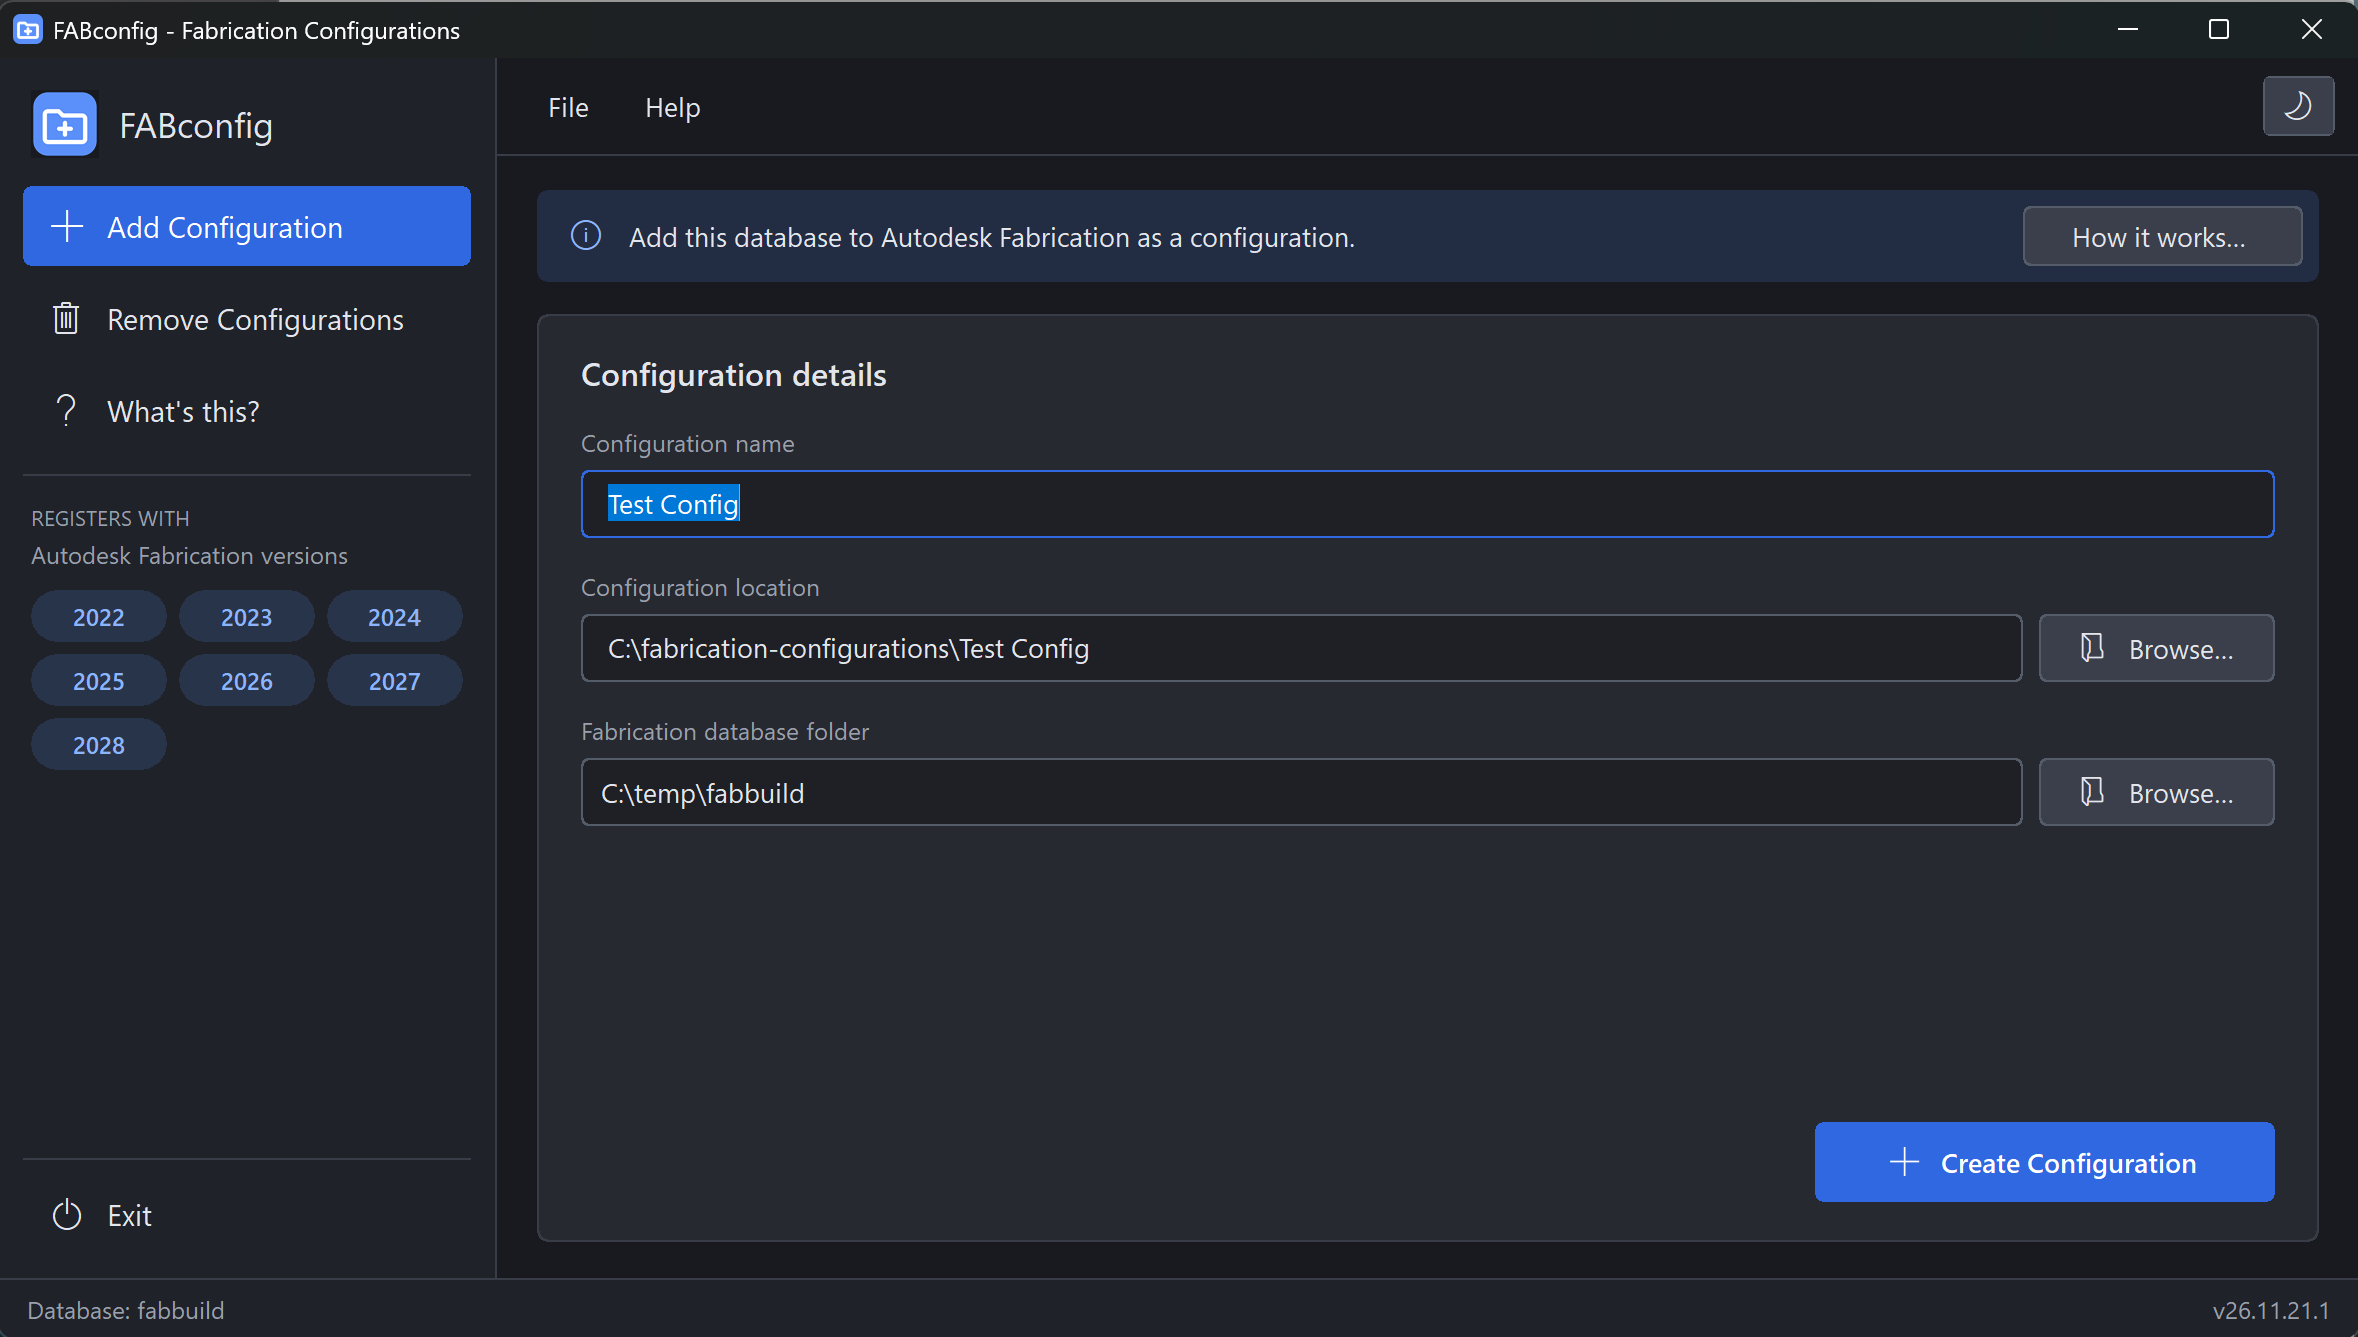
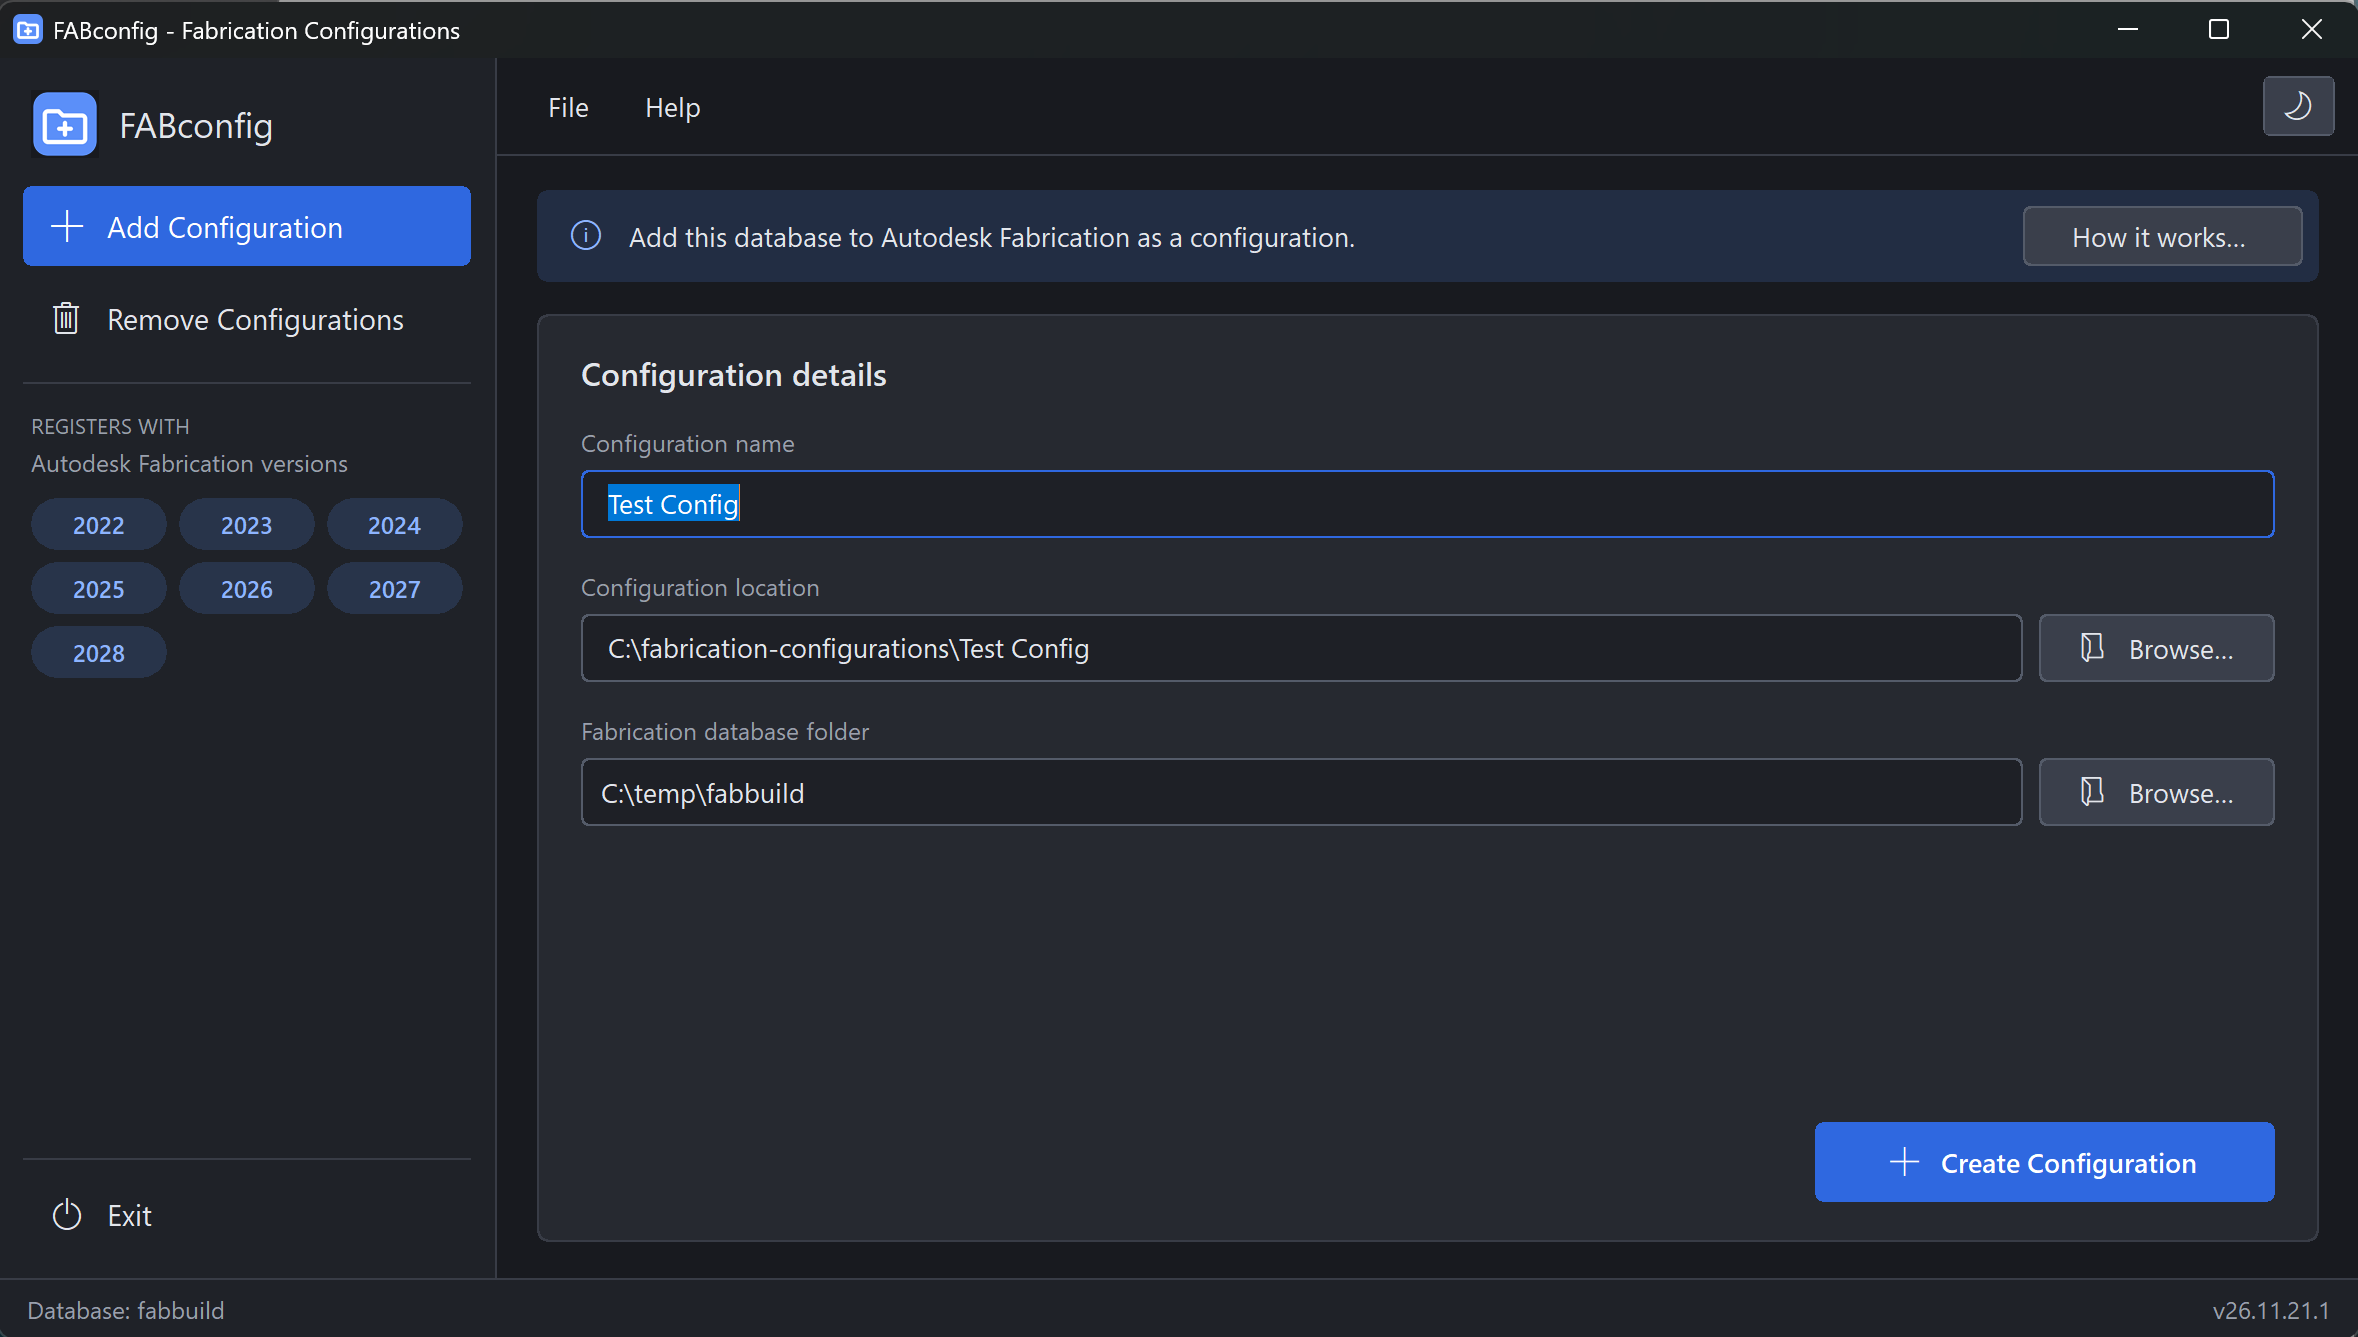
Add Help > How to use FABconfig, link to the README, move What's this? to Help

Changed region(s): [[0.0, 0.276, 0.2167, 0.5826]]

diff --git a/CLAUDE.md b/CLAUDE.md
@@ -51,8 +51,8 @@ Owner and developer: Scott Hendricks, Virtual Building Supply, LLC (VBS). Licens
 
 ## UI structure
 
-- Laid out like MapQuery Studio: sidebar (app icon tile + name, pill-shaped nav items New configuration / What's this? that fill with the accent when selected, a "REGISTERS WITH" section of version chips, Exit at the bottom), a top bar (File and Help menus, theme button on the right), the page, and a status bar (database folder name on the left, version on the right). Cards have a 1px border (`PlaceCard`: a border layer under a fill layer).
-- Views: `main` (Add Configuration), `remove` (Remove Configurations) and `about`; each view's controls are in `mainCtrls` / `removeCtrls` / `aboutCtrls`, and `ShowView()` switches them. The status bar text comes from `StatusText()` (database name, or the configuration count on the Remove page).
+- Laid out like MapQuery Studio: sidebar (app icon tile + name, pill-shaped nav items Add Configuration / Remove Configurations that fill with the accent when selected, a "REGISTERS WITH" section of version chips, Exit at the bottom), a top bar (File and Help menus, theme button on the right), the page, and a status bar (database folder name on the left, version on the right). Cards have a 1px border (`PlaceCard`: a border layer under a fill layer).
+- Views: `main` (Add Configuration), `remove` (Remove Configurations), `help` (Help → How to use FABconfig: two cards of steps from `HELP_ADD` / `HELP_REMOVE` and a button that opens `README_URL`, the README's "How to use it" section) and `about` (Help → What's this?; no longer in the sidebar); each view's controls are in `mainCtrls` / `removeCtrls` / `helpCtrls` / `aboutCtrls`, and `ShowView()` switches them. The status bar text comes from `StatusText()` (database name, or the configuration count on the Remove page).
 - Remove view: info banner, a ListView of configurations (`FindConfigs()` groups registry entries by name and folder; `RefreshConfigs()` fills the list, all unticked), the Recycle Bin checkbox (no text of its own: a themed checkbox ignores the text color, so a separate label toggles it), Refresh and Remove selected (danger color). In the dark theme, `SetControlThemes()` opts the app into dark mode through uxtheme's unnamed functions (ordinals 135 SetPreferredAppMode, 136 FlushMenuThemes, 133 AllowDarkModeForWindow), which also makes the menus dark, and `LvSubclass` gives the list header its text color by answering NM_CUSTOMDRAW.
 - Main view: an info banner (with "How it works…") and the "Configuration details" card (name, location + Browse, database folder + Browse, Create Configuration button at bottom right).
 - About view ("What's this?"): four numbered step tiles and a text card ending with the VBS logo and the GPL copyright/no-warranty notice.

diff --git a/README.md b/README.md
@@ -2,7 +2,7 @@
 
 FABconfig adds an Autodesk Fabrication database to Fabrication (Revit, CADmep, ESTmep, CAMduct) as a named configuration, so the database appears in Fabrication's configuration list at start-up. It can also remove configurations you no longer need. It creates the configuration folder, writes a `map.ini` that points back to the shared database, and registers the configuration with each recent Fabrication version, all in one click.
 
-![FABconfig's Add Configuration page in the dark theme, with the configuration name, location and database folder; the sidebar has Add Configuration, Remove Configurations and What's this?, and the Fabrication versions it registers with](docs/screenshot.png)
+![FABconfig's Add Configuration page in the dark theme, with the configuration name, location and database folder; the sidebar has Add Configuration and Remove Configurations, and the Fabrication versions it registers with](docs/screenshot.png)
 
 FABconfig is written in [AutoHotkey v2](https://www.autohotkey.com/) and can be run as a script or compiled into a standalone `.exe`. It is developed by Virtual Building Supply, LLC and released under the GNU General Public License v3.
 
@@ -27,7 +27,7 @@ No administrator rights are needed. FABconfig writes only to the current user's 
 4. Check the name, location and database folder, then click **Create Configuration** (or press Enter). Use the **Browse** button beside the database folder to pick a different database.
 5. Start Fabrication. The new configuration appears in the configuration list.
 
-The **What's this?** page in the sidebar (also under **Help**) explains each step inside the program. Esc returns from that page, or closes the program from the main page. The button at the top right switches between the dark and light themes.
+**Help → How to use FABconfig** shows short steps for adding and removing configurations, and **Help → Online instructions** opens this section in your web browser. **Help → What's this?** explains what FABconfig changes. Esc returns from those pages to Add Configuration, or closes the program from the main page. The button at the top right switches between the dark and light themes.
 
 ## What it changes
 

diff --git a/CHANGELOG.md b/CHANGELOG.md
@@ -4,6 +4,13 @@ What changed in each version of FABconfig. Versions are dates (`vYY.MM.DD`); see
 
 ## Unreleased
 
+### Added
+- **Help → How to use FABconfig**: a page with short steps for adding and removing configurations, and a button to the online instructions.
+- **Help → Online instructions** opens the "How to use it" section of the README on GitHub in your web browser.
+
+### Changed
+- "What's this?" is no longer in the sidebar; it's under **Help** (and the "How it works…" button).
+
 ## v26.11.21.1
 
 ### Added
